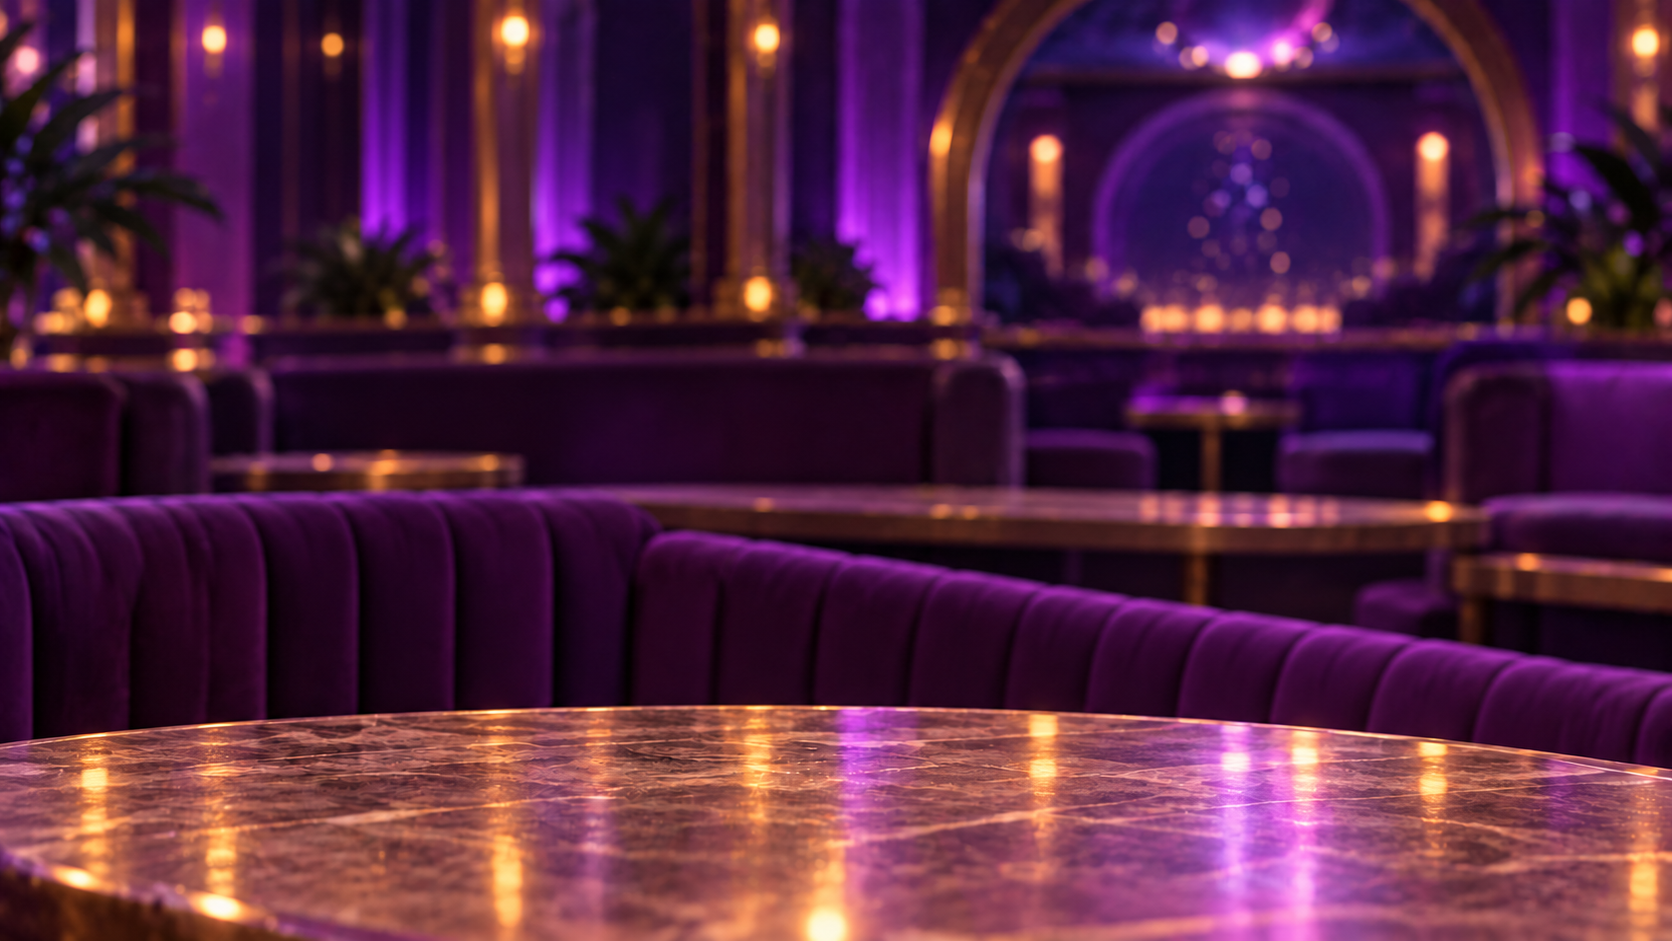
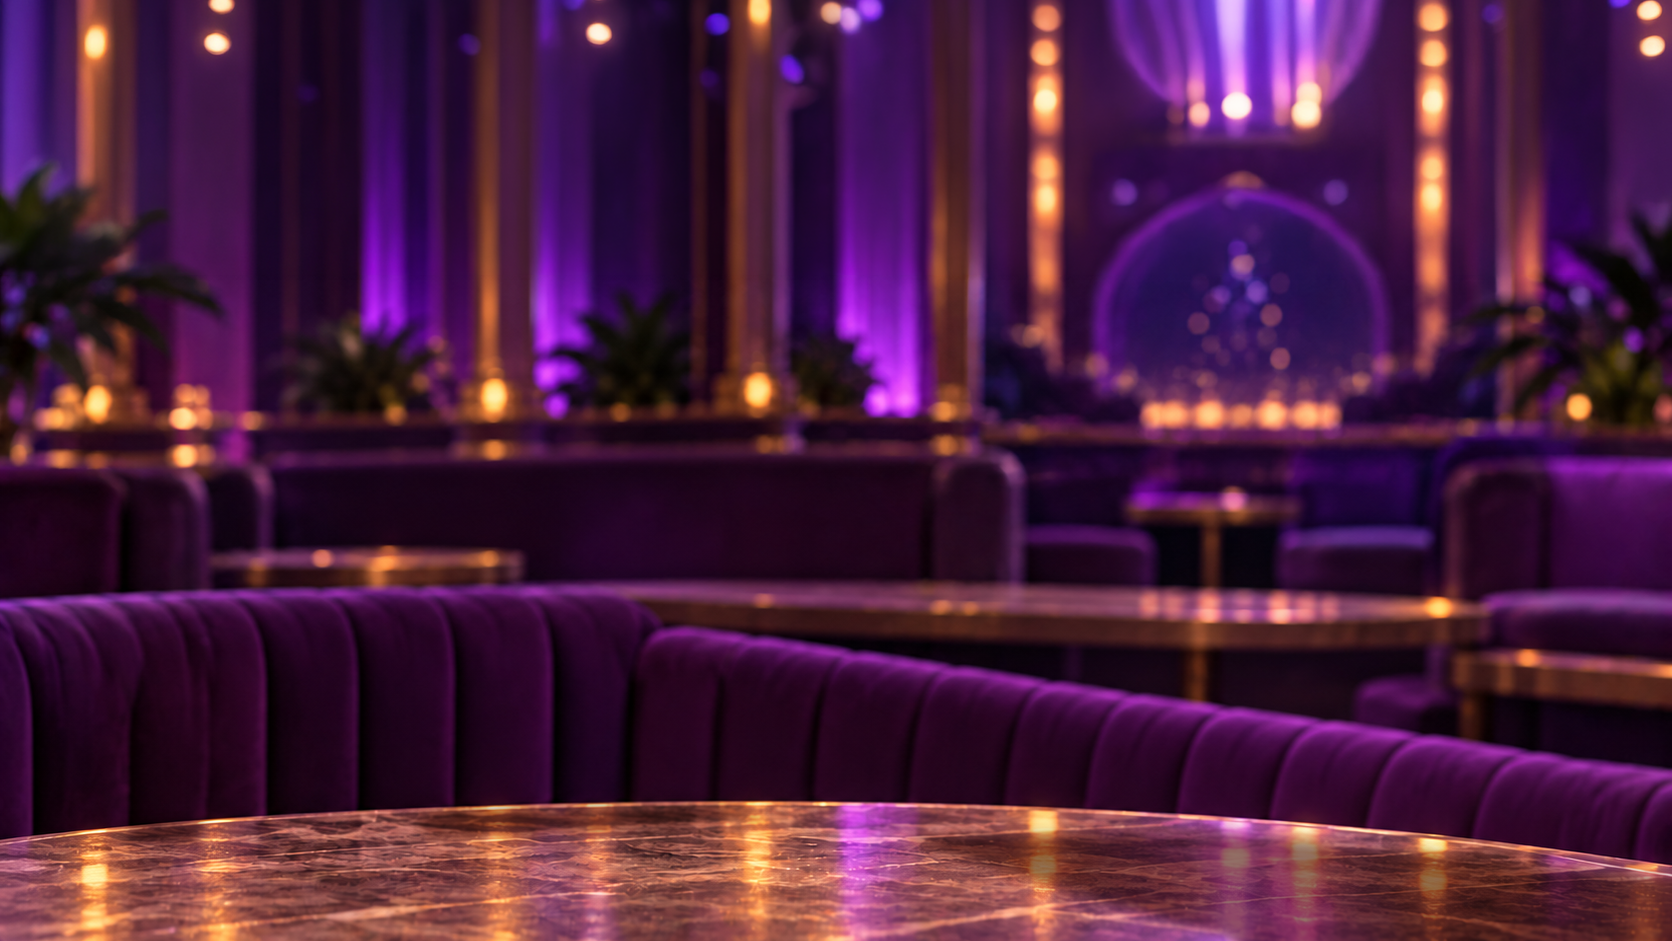
animacao nova

diff --git a/animation.css b/animation.css
@@ -9,8 +9,12 @@
 .dr-scene__stage img{display:block;max-width:none;user-select:none;pointer-events:none}
 .dr-scene__bg{position:absolute;inset:0;width:1672px;height:941px}
 
+/* Props: pendant lamp hangs from the top edge between Dr. Bingo and the tablet; mug rests on the table in front */
+.dr-lamp{position:absolute;left:700px;top:0;width:350px;height:auto}
+.dr-mug{position:absolute;left:330px;top:760px;width:206px;height:172px}
+
 /* Tablet: full-canvas PNG (1672×941) scaled down, resting on the right of the table */
-.dr-tablet{position:absolute;left:748px;top:452px;width:1672px;height:941px;transform:scale(.5);transform-origin:0 0}
+.dr-tablet{position:absolute;left:748px;top:450px;width:1672px;height:941px;transform:scale(.5);transform-origin:0 0}
 .dr-tablet > img{position:absolute;inset:0;width:1672px;height:941px}
 /* HTML screen: a flat 1000×700 layer warped onto the screen's corners with matrix3d (set in animation.js) */
 .dr-screen{position:absolute;left:0;top:0;width:1000px;height:700px;transform-origin:0 0;overflow:hidden;border-radius:28px}
@@ -32,7 +36,7 @@
 .dr-confetti--c4{background:#fff}
 
 /* Dr. Bingo: 1419×1109 canvas scaled down on the left; frames and patches share the canvas coordinates */
-.dr-char{position:absolute;left:78px;top:262px;width:1419px;height:1109px;transform:scale(.62);transform-origin:0 0}
+.dr-char{position:absolute;top:150px;width:1419px;height:1109px;transform:scale(.62);transform-origin:0 0}
 .dr-char__body{position:absolute;inset:0;transform-origin:50% 100%;animation:dr-breathe calc(var(--loop) / 2) ease-in-out infinite}
 .dr-char__body > img{position:absolute;left:0;top:0}
 .dr-char__brows{left:500px!important;top:270px!important;animation:dr-brows var(--loop) ease-in-out infinite}

diff --git a/animation.js b/animation.js
@@ -48,6 +48,7 @@
 
     const stage = node("div", "dr-scene__stage");
     stage.appendChild(img("01-cenario-vazio.png", "dr-scene__bg", 1672, 941));
+    stage.appendChild(img("lustre.png", "dr-lamp", 1024, 1536));
 
     const tablet = node("div", "dr-tablet");
     tablet.appendChild(img("02-tablet-tela-limpa.png", "", 1672, 941));
@@ -70,7 +71,6 @@
     content.append(word, confetti);
     screen.appendChild(content);
     tablet.appendChild(screen);
-    stage.appendChild(tablet);
 
     // Both character frames share one canvas (checked pixel by pixel: only the eyes differ), so the blink
     // overlay is clipped to the eyes and the eyebrow patch sits at its crop offset.
@@ -78,11 +78,12 @@
     const body = node("div", "dr-char__body");
     body.append(
       img("03-dr-bingo-olhos-abertos.png", "", 1419, 1109),
-      img("05-dr-bingo-sobrancelhas.png", "dr-char__brows", 360, 200),
       img("04-dr-bingo-piscando.png", "dr-char__blink", 1419, 1109)
     );
     char.appendChild(body);
     stage.appendChild(char);
+    stage.appendChild(tablet); // after the character so the tablet sits in front of Dr. Bingo
+    stage.appendChild(img("cafe.png", "dr-mug", 1374, 1145));
     root.appendChild(stage);
 
     const fit = () => {
